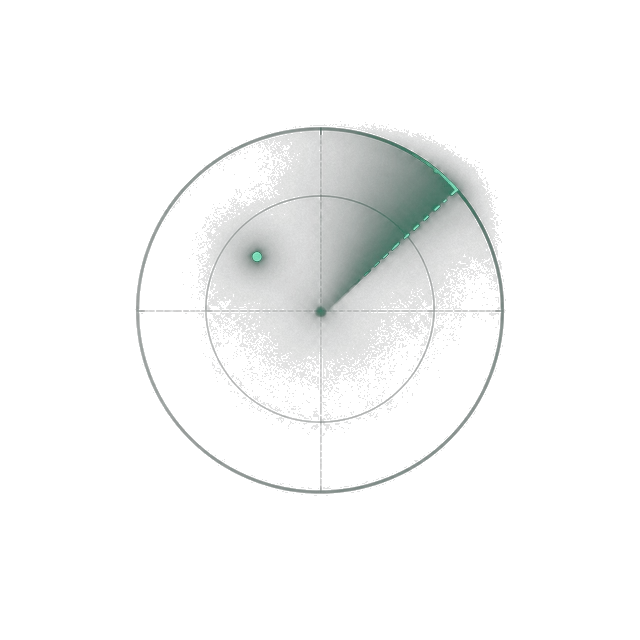
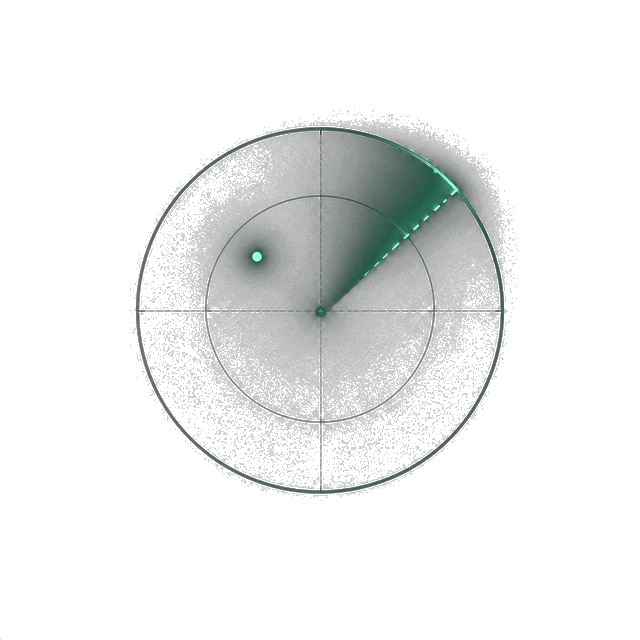
polish(assets): brighter 404 radar cutout (#184)
Raise the illustration's luminance curve and size to 215px so the broken sweep
reads without a visible backing square.

Changed region(s): [[0.1875, 0.1875, 0.8125, 0.7812]]

diff --git a/web/src/styles.css b/web/src/styles.css
@@ -1849,5 +1849,5 @@ input::placeholder, textarea::placeholder { color: var(--text-3); opacity: 1; }
   border-radius: 9px; border: 1px solid var(--line);
   background: #070b0f; margin-bottom: 16px;
 }
-.nf-art { display: block; width: 190px; height: 190px; margin: -6px auto 10px; opacity: .95; }
+.nf-art { display: block; width: 215px; height: 215px; margin: -6px auto 10px; opacity: .95; }
 .guide-card { overflow: hidden; }

diff --git a/PROJECT_STATE.md b/PROJECT_STATE.md
@@ -5,7 +5,7 @@
 
 ## 1. 当前线上状态
 
-- 版本：**v0.3.26**（修复二进制素材发布时被 UTF-8 转码损坏；封面/404/OG 重新以原始字节上传）
+- 版本：**v0.3.27**（404 插画加亮并放大到 215px，断线雷达更清晰）
 - 仓库：https://github.com/MHOOAPI/relayradar（public，main 受分支保护）
 - 本地栈：`docker compose -f docker-compose.yml -f docker-compose.prod.yml up -d`，镜像来自 GHCR
 - 访问：https://localhost/（自签证书）、http://localhost:8088/
